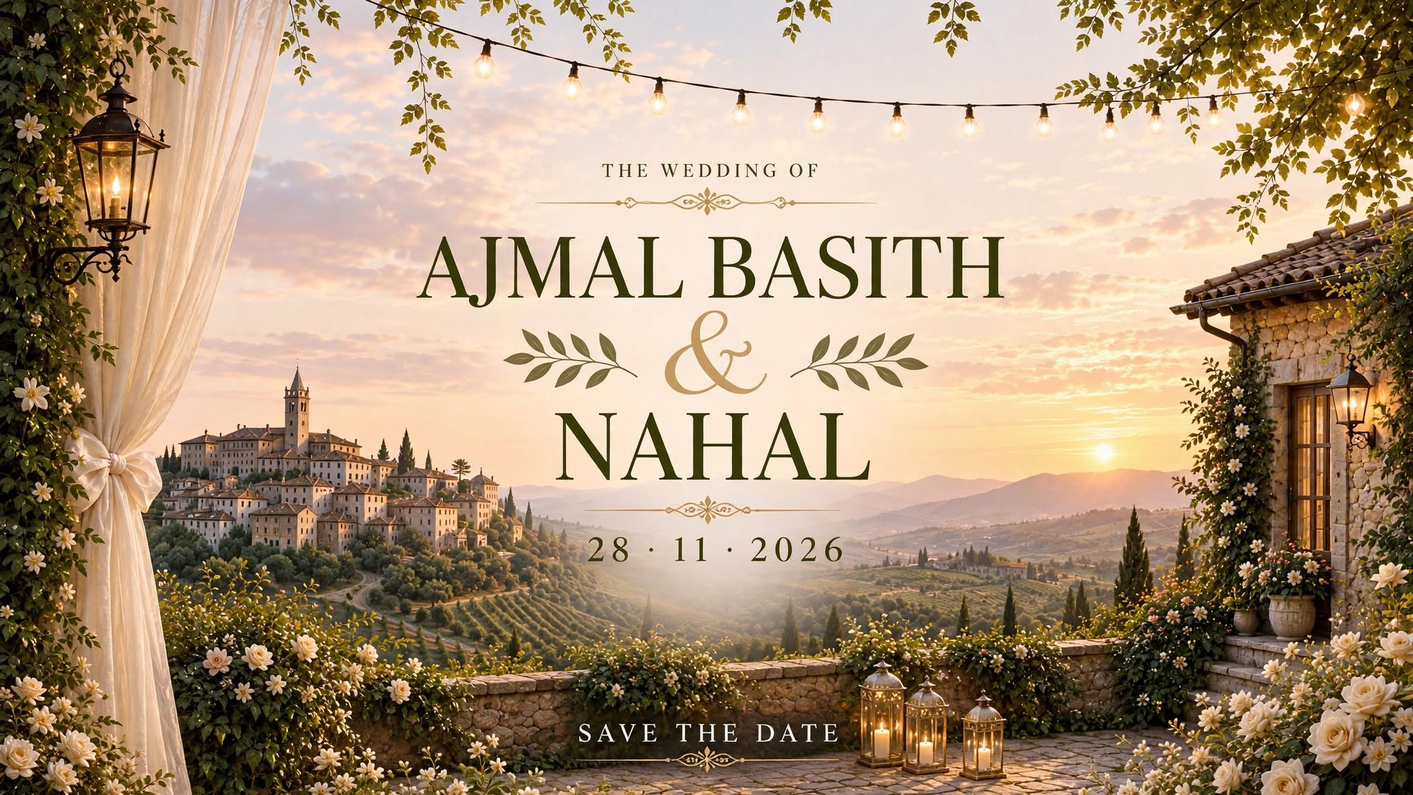
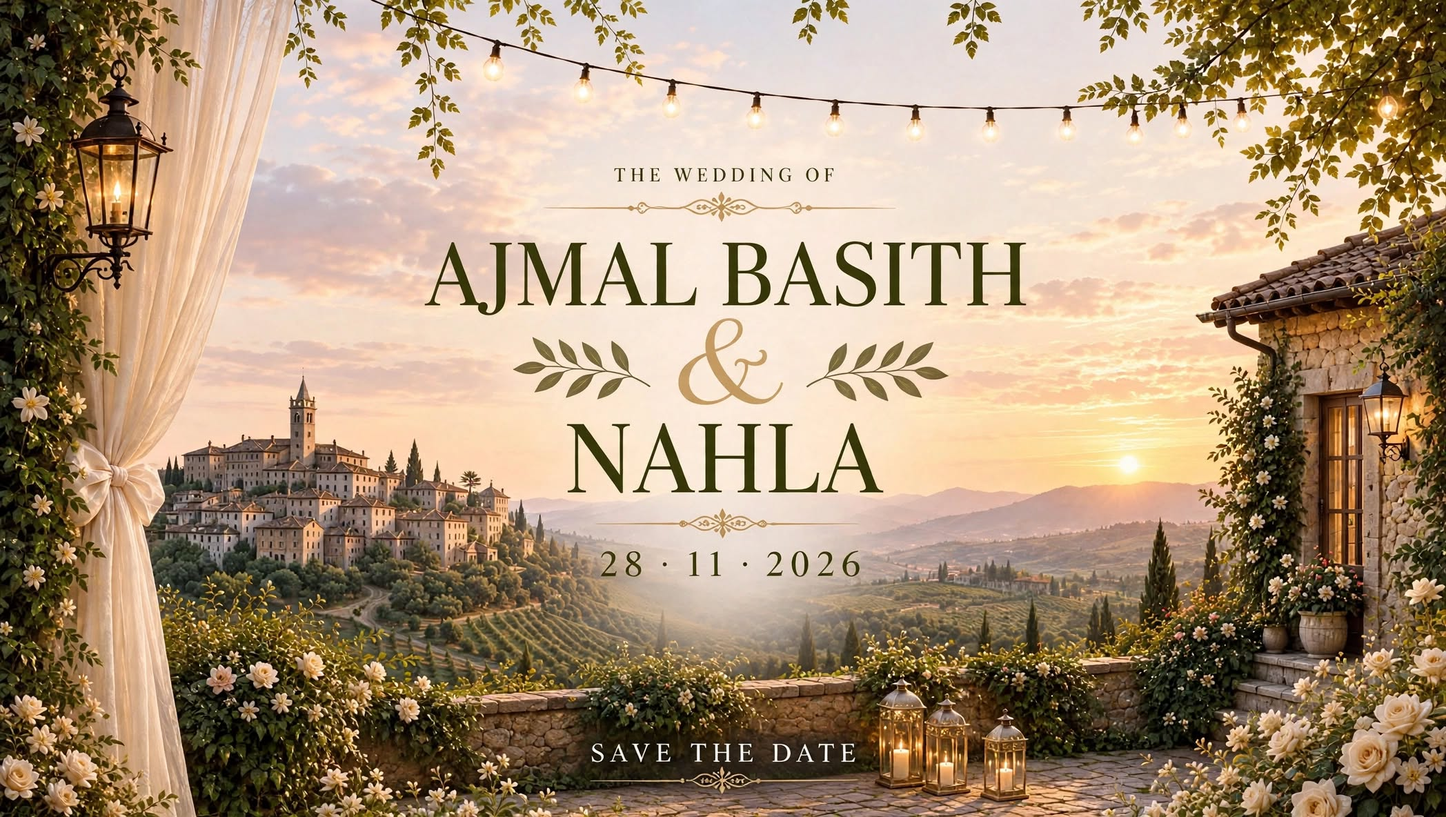
efdgerg

diff --git a/index.html b/index.html
@@ -6,23 +6,23 @@
 <title>Ajmal Basith & Nahla — 28.11.2026</title>
 <meta name="description" content="The wedding of Ajmal Basith & Nahla — 28 November 2026.">
 <meta name="theme-color" content="#2E2A22">
-<link rel="canonical" href="https://ajmal-basith-nahal.vercel.app/">
+<link rel="canonical" href="https://ajmal-basith-nahla.vercel.app/">
 
 <!-- Open Graph / social share preview -->
 <meta property="og:type" content="website">
-<meta property="og:url" content="https://ajmal-basith-nahal.vercel.app/">
+<meta property="og:url" content="https://ajmal-basith-nahla.vercel.app/">
 <meta property="og:title" content="Ajmal Basith & Nahla — 28.11.2026">
 <meta property="og:description" content="Together with their families, Ajmal Basith & Nahla joyfully invite you to their wedding on 28 November 2026.">
-<meta property="og:image" content="https://ajmal-basith-nahal.vercel.app/og.jpg">
+<meta property="og:image" content="https://ajmal-basith-nahla.vercel.app/og.jpg">
 <meta property="og:image:width" content="1200">
 <meta property="og:image:height" content="675">
 <meta property="og:image:type" content="image/jpeg">
 <meta name="twitter:card" content="summary_large_image">
-<meta name="twitter:url" content="https://ajmal-basith-nahal.vercel.app/">
+<meta name="twitter:url" content="https://ajmal-basith-nahla.vercel.app/">
 <meta name="twitter:title" content="Ajmal Basith & Nahla — 28.11.2026">
 <meta name="twitter:description" content="Together with their families, Ajmal Basith & Nahla joyfully invite you to their wedding on 28 November 2026.">
-<meta name="twitter:image" content="https://ajmal-basith-nahal.vercel.app/og.jpg">
-<link rel="icon" href="https://ajmal-basith-nahal.vercel.app/og.jpg">
+<meta name="twitter:image" content="https://ajmal-basith-nahla.vercel.app/og.jpg">
+<link rel="icon" href="https://ajmal-basith-nahla.vercel.app/og.jpg">
 
 <link rel="preconnect" href="https://fonts.googleapis.com">
 <link rel="preconnect" href="https://fonts.gstatic.com" crossorigin>
